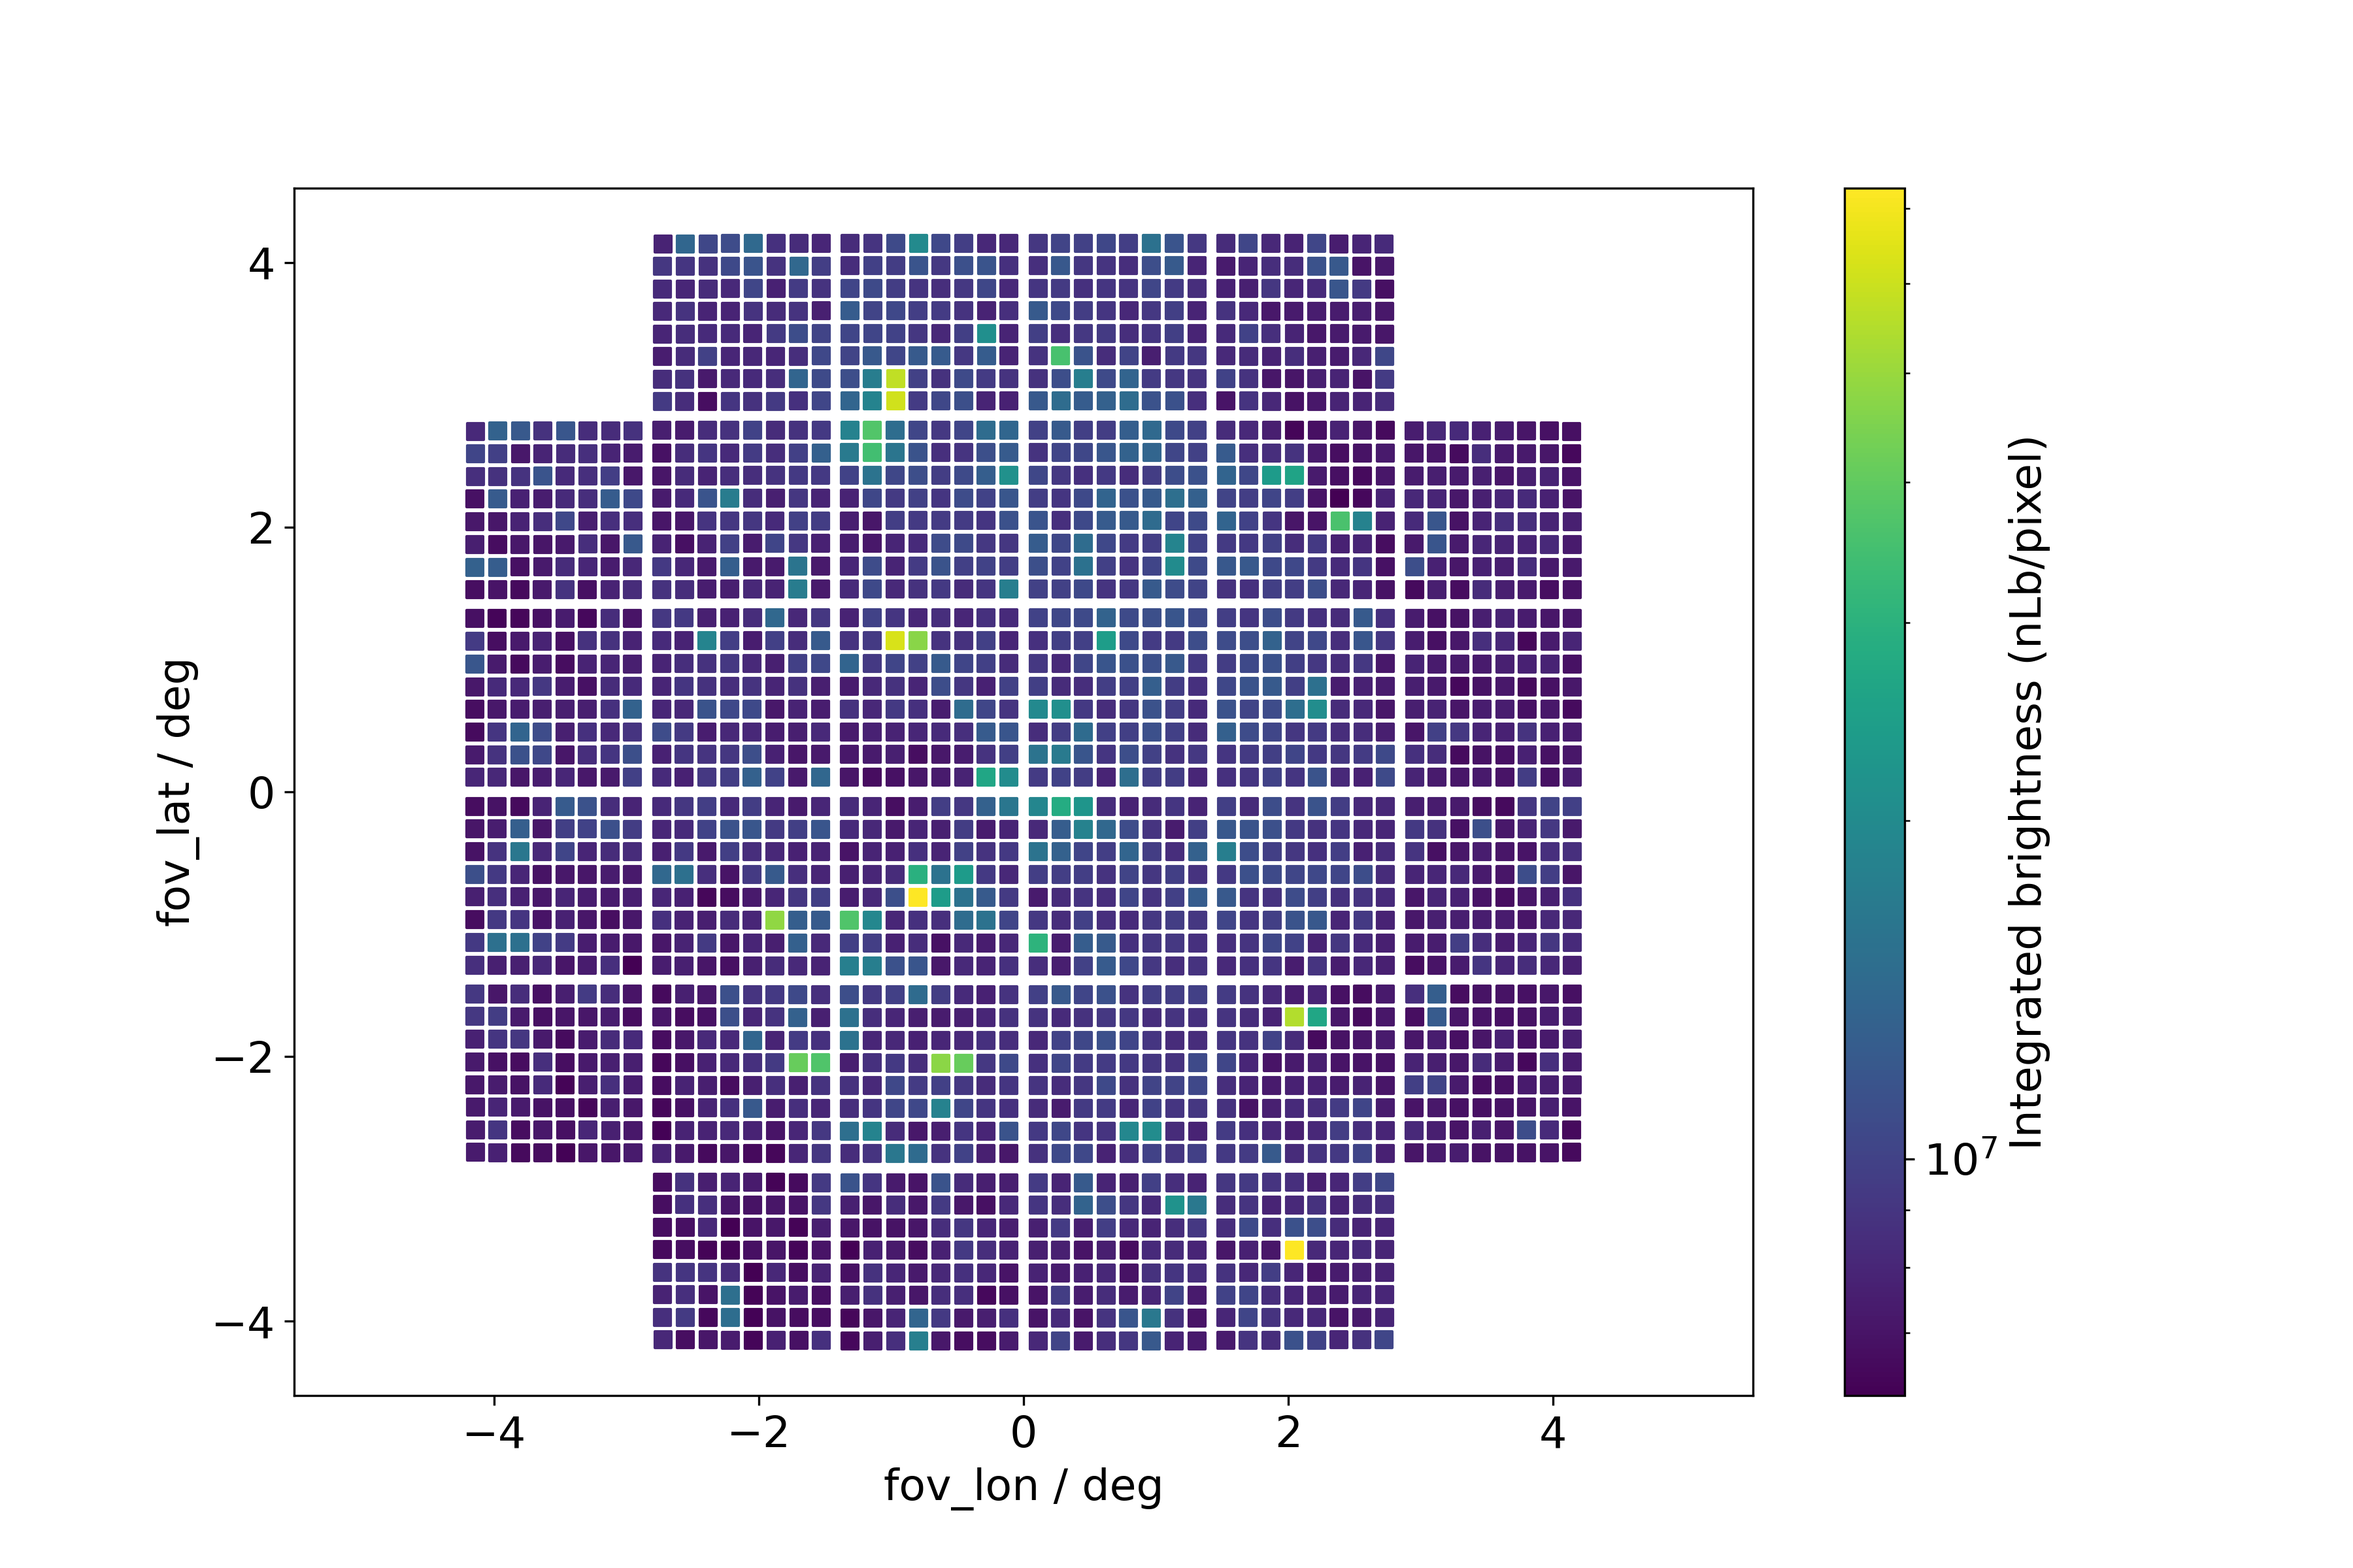
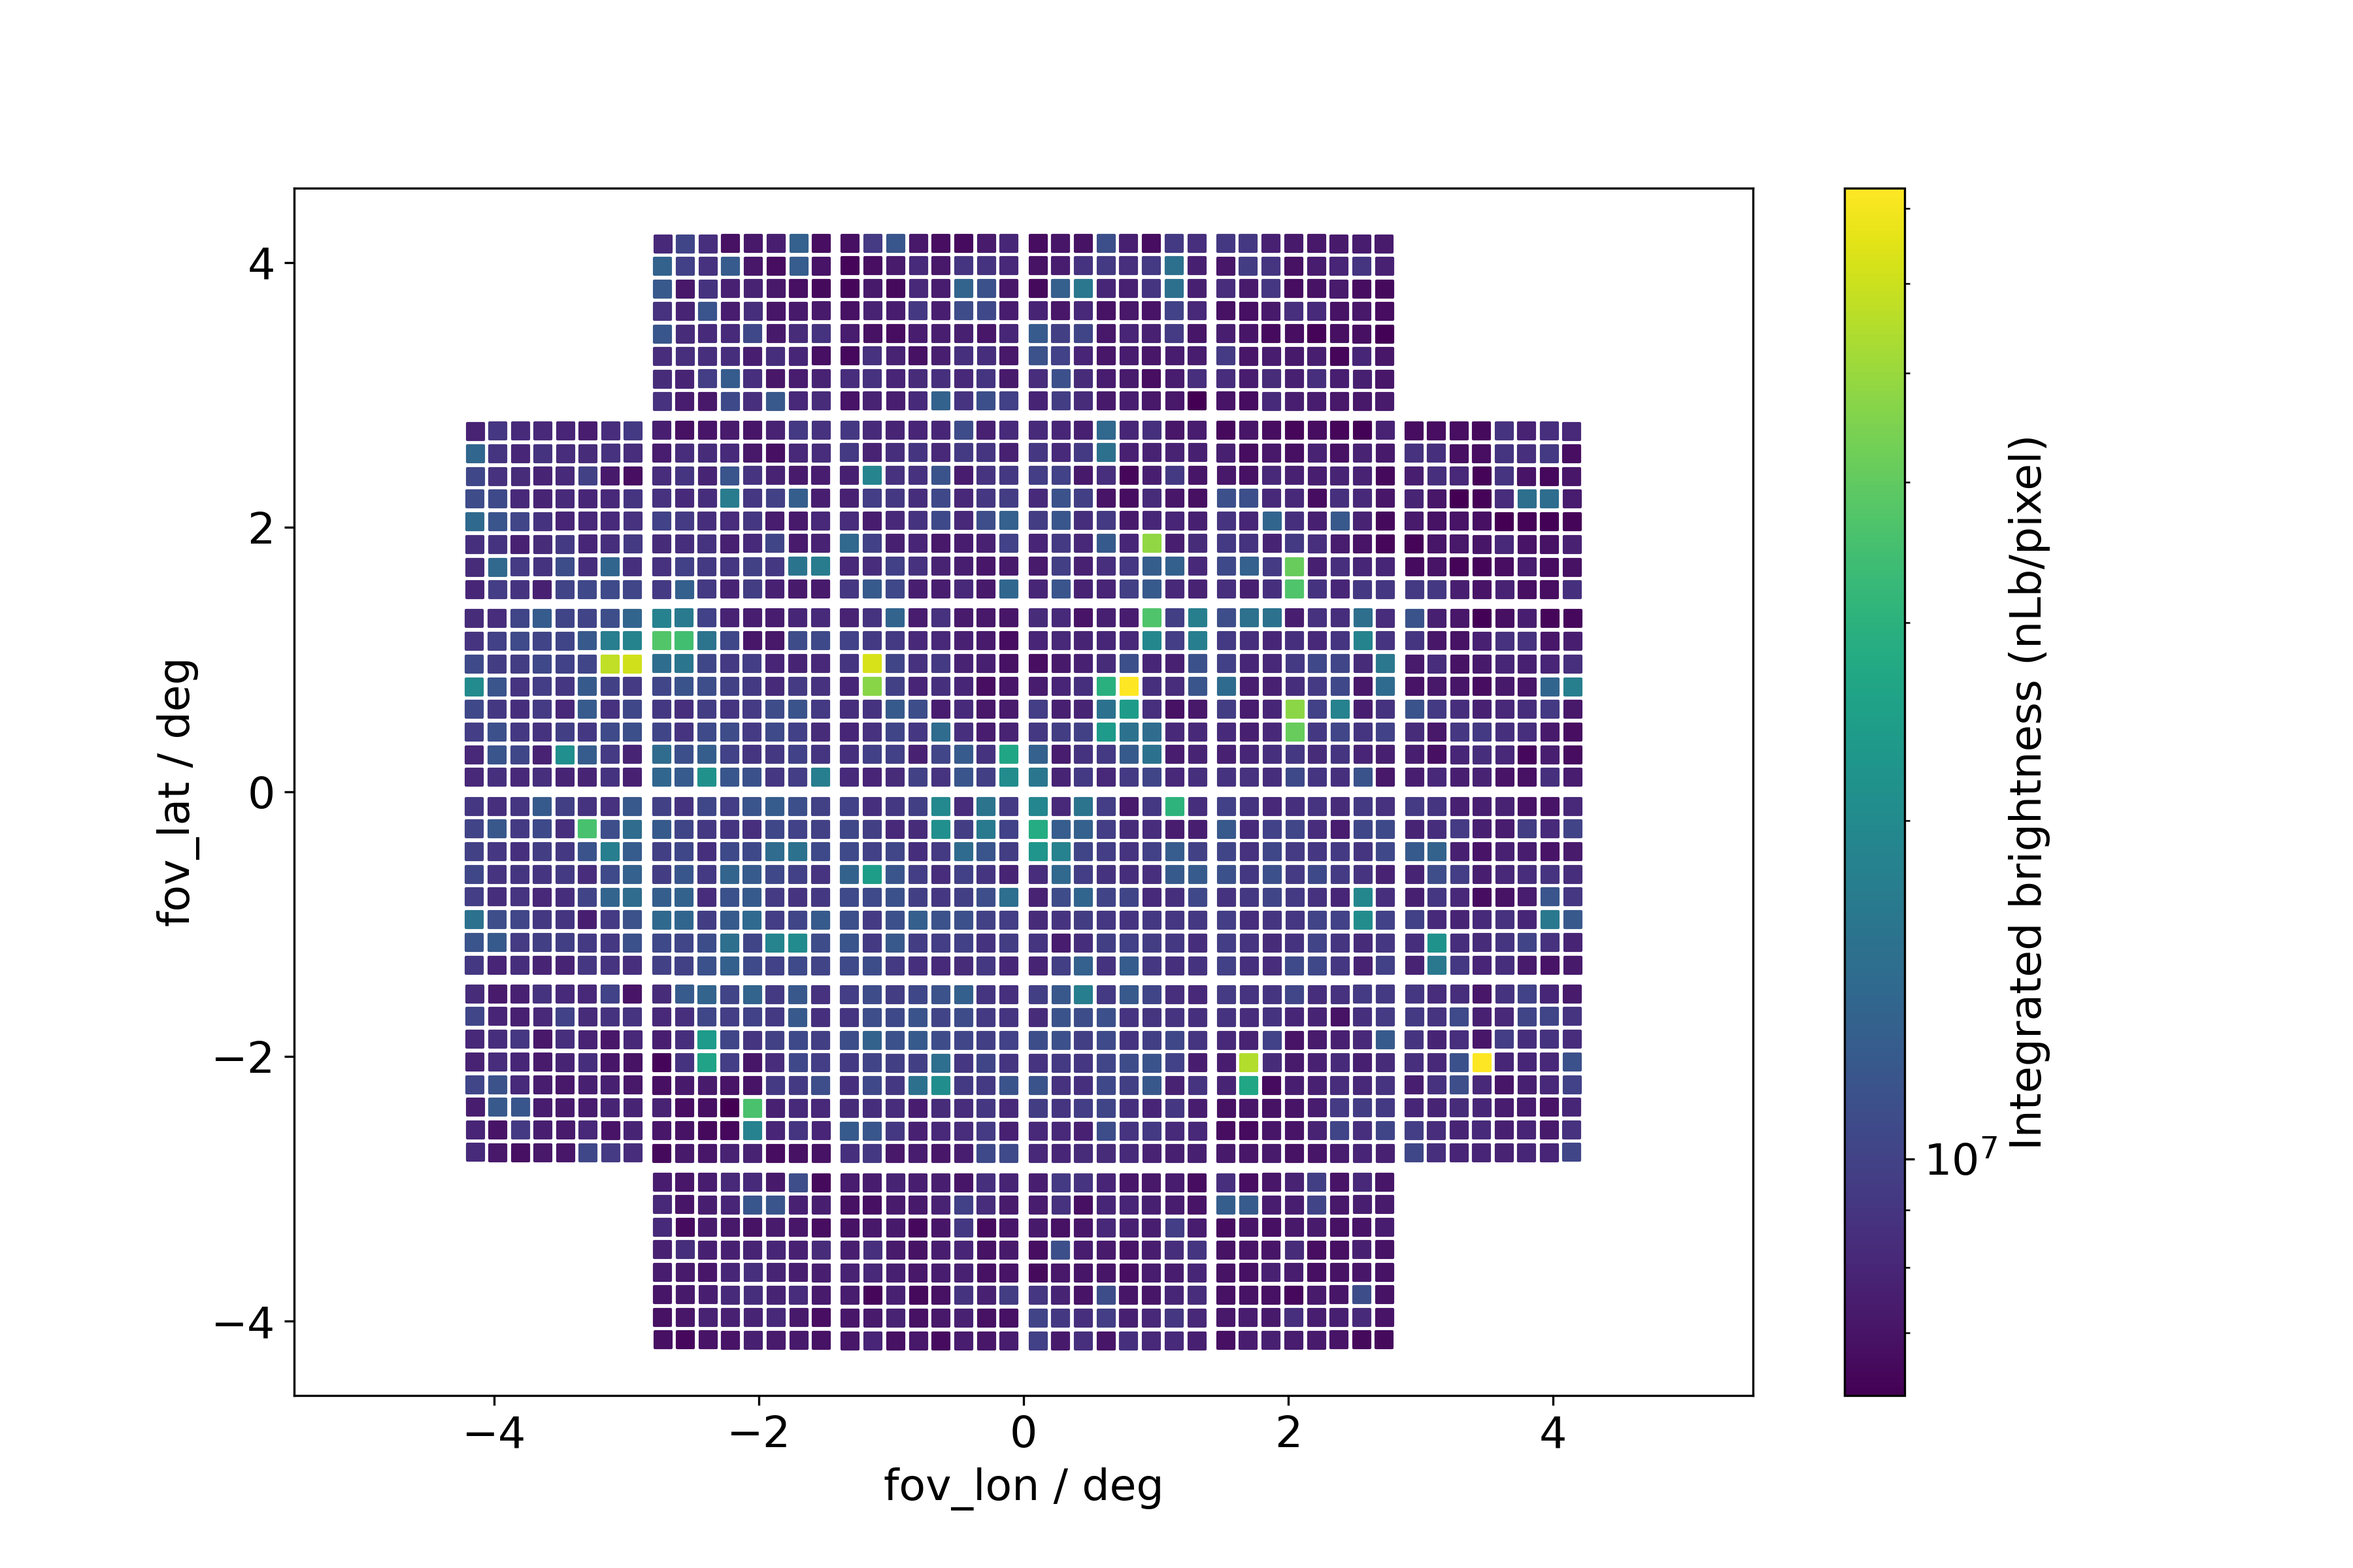
Corrected field rotation

Changed region(s): [[0.1867, 0.125, 0.6844, 0.875]]

diff --git a/scripts/fromfits.py b/scripts/fromfits.py
@@ -23,7 +23,7 @@ np.set_printoptions(threshold=2000)
 plt.rcParams['figure.figsize'] = (12, 8)
 plt.rcParams['font.size'] = 16
 
-filename='/store/spencers/NSBmaps/NSB_of_20220322013000_biggerfov.fits'
+filename='/store/spencers/NSBmaps/NSB_of_20220322015000_delta20mins.fits'
 
 hdu1=fits.open(filename)
 #print(hdu1)
@@ -71,7 +71,7 @@ print(data,np.shape(data))
 #data=w.pixel_to_world(data)
 
 location = EarthLocation.from_geodetic(-70.317876,-24.681546)
-obstime = Time('2022-03-22T01:30')
+obstime = Time('2022-03-22T01:50')
 
 vela = SkyCoord.from_name("Eta Carinae")
 print(vela)
@@ -99,8 +99,12 @@ telescope_frame = TelescopeFrame(
 )
 engineering_frame=EngineeringCameraFrame(n_mirrors=2,location=pointing.location,obstime=pointing.obstime,focal_length=focal_length,telescope_pointing=pointing)
 telescope_coords = cam_coords.transform_to(engineering_frame)
+tc2=cam_coords.transform_to(telescope_frame)
+
 print(telescope_coords.fk5)
 sky_coords=telescope_coords.transform_to(ICRS())
+sc2=tc2.transform_to(ICRS())
+
 print(sky_coords)
 #print('Telescope coordinates:',telescope_coords,dir(telescope_coords))
 print('WCS used:',wcs_dict)
@@ -117,29 +121,14 @@ fig=plt.figure()
 sums=phot_table['aperture_sum']
 sums=np.nan_to_num(sums)
 print(sums)
-print(dir(telescope_coords),dir(sky_coords),dir(sky_coords.engineeringcameraframe))
+
 plt.hist(sums.value)
 plt.semilogy()
 plt.xlabel('Pixel')
 plt.ylabel('Integrated Sky Brightness (nLb / pixel)')
 plt.savefig('hist.png')
 
-'''fig=plt.figure()
 
-plt.axis('equal')
-plt.scatter(
-    sky_coords.fov_lon.deg,
-    sky_coords.fov_lat.deg,
-    c=sums.value,
-    norm=mpl.colors.LogNorm(),
-    cmap=cm.viridis
-)
-
-plt.colorbar(label='Integrated brightness (nLb/pixel)')
-plt.xlabel('fov_lon / {}'.format(sky_coords.altaz.az.unit))
-plt.ylabel('fov_lat / {}'.format(sky_coords.altaz.alt.unit))
-plt.savefig('integrated.png',dpi=300)
-'''
 engineering_cam=cam.transform_to(engineering_frame)
 
 fig, axs = plt.subplots(1, 2, constrained_layout=True, figsize=(12, 6))
@@ -167,3 +156,20 @@ display_engineering = CameraDisplay(
 display_engineering.add_colorbar(label='Brightness (nLb/pixel)')
 
 plt.savefig('integrated.png',dpi=300)
+
+
+fig=plt.figure()
+plt.axis('equal')
+
+angle=-90.0
+theta=np.pi*angle/180
+rotation=np.array([[np.cos(theta),-np.sin(theta)],[np.sin(theta),np.cos(theta)]])
+pos=np.array([tc2.fov_lat.deg,tc2.fov_lon.deg])
+pos=np.dot(rotation,pos)
+
+plt.scatter(pos[0],pos[1],c=sums.value,norm=mpl.colors.LogNorm(),cmap=cm.viridis,marker='s') #Hacky solution to rotate sky field to be the same rotation as the engineering camera frame
+plt.colorbar(label='Integrated brightness (nLb/pixel)')                                                                                                                                                    
+plt.xlabel('fov_lon / {}'.format(tc2.altaz.az.unit))
+plt.ylabel('fov_lat / {}'.format(tc2.altaz.alt.unit))                                                                                                                                               
+plt.savefig('skyframe.png',dpi=300)
+
